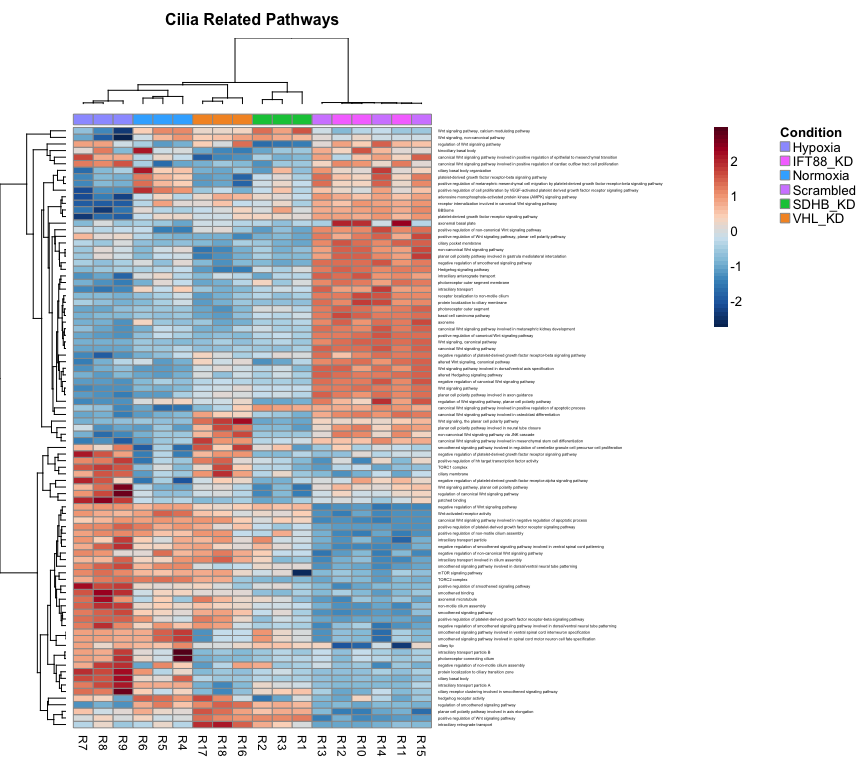
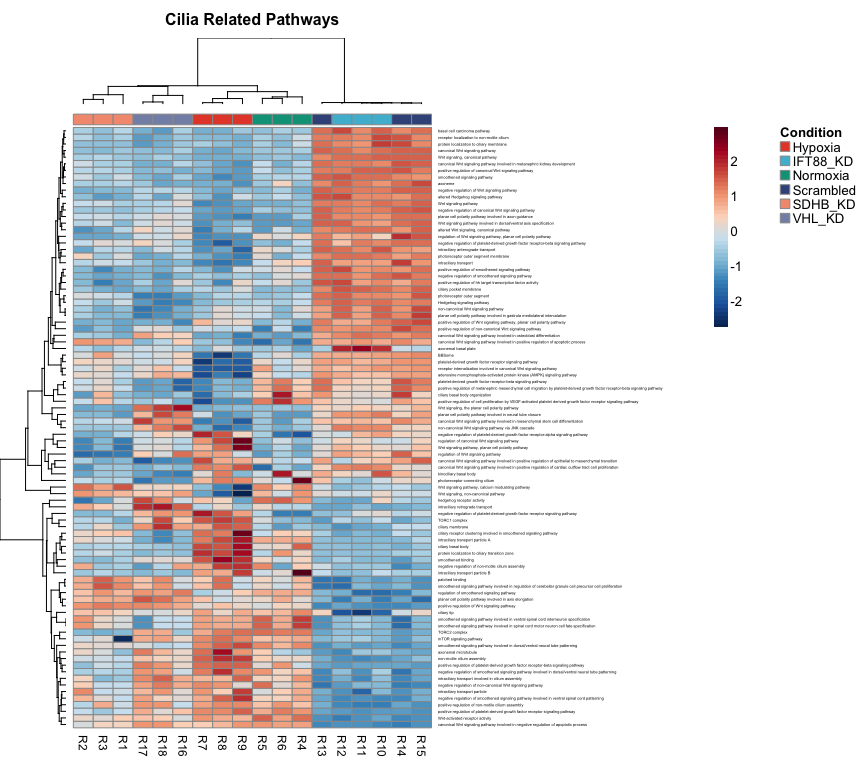
rn update

Changed region(s): [[0.0, 0.0625, 0.75, 1.0], [0.9062, 0.1875, 0.9375, 0.2812]]

diff --git a/Scripts/Rn_Hypoxia_vs_Normoxia.md b/Scripts/Rn_Hypoxia_vs_Normoxia.md
@@ -8,7 +8,7 @@ Rat Gene Knockout
 -   [Pathway Enrichment](#pathway-enrichment)
 -   [Figures](#figures)
 
-All analysis was conducted in R version 3.3.3 using the following script. Computations were performed on a MacBook Pro with 16GB of RAM.
+All analysis was conducted in R version 3.4.0 using the following script. Computations were performed on a MacBook Pro with 16GB of RAM and an i7 quad-core processor.
 
 If you haven't already installed the `bioplotr` package, you'll need to do so to reproduce the figures below.
 
@@ -40,17 +40,17 @@ anno <- fread('./Data/Rn.anno.csv')
 clin <- fread('./Data/Rn.Clinical.csv') 
 t2g <- fread('./Data/Rn83.t2g_Symbol.csv')
 files <- file.path('./Data/Counts/Rat', clin$Sample, 'abundance.tsv')
-txi <- tximport(files, type = 'kallisto', tx2gene = t2g, reader = fread)
+txi <- tximport(files, type = 'kallisto', tx2gene = t2g, importer = fread)
 ```
 
 Filter, Transform Counts
 ========================
 
-Before conducting exploratory data analysis (EDA), we remove genes with less than one count per million (CPM) in three libraries. This ensures that every gene is expressed in at least one condition. This threshold follows the filtering guidelines of [Robinson et al. (2010)](https://www.ncbi.nlm.nih.gov/pubmed/19910308). Counts are then RLE normalised ([Anders & Huber, 2010](https://genomebiology.biomedcentral.com/articles/10.1186/gb-2010-11-10-r106)) and converted to the log<sub>2</sub>-CPM scale to stabilise variance across the omic range.
+Before conducting exploratory data analysis (EDA), we remove genes with less than one count per million (CPM) in at least three libraries. This ensures that every gene is expressed in at least one condition. This threshold follows the filtering guidelines of [Robinson et al. (2010)](https://www.ncbi.nlm.nih.gov/pubmed/19910308). Counts are then RLE normalised ([Anders & Huber, 2010](https://genomebiology.biomedcentral.com/articles/10.1186/gb-2010-11-10-r106)) and converted to the log<sub>2</sub>-CPM scale to stabilise variance across the omic range.
 
 ``` r
 # Filter, transform counts
-keep <- rowSums(cpm(txi$counts) >= 1) > 3
+keep <- rowSums(cpm(txi$counts) > 1) >= 3
 mat <- DGEList(txi$counts[keep, ])
 mat <- calcNormFactors(mat, method = 'RLE')
 mat <- cpm(mat, log = TRUE, prior.count = 1)
@@ -60,7 +60,7 @@ colnames(mat) <- clin$Sample
 dim(mat)
 ```
 
-    ## [1] 13490    18
+    ## [1] 13621    18
 
 EDA will proceed with 13,490 genes. (Note that gene filtering is performed separately for differential expression analysis. We will make use of this EDA filter when testing for pathway enrichment, however. See below.)
 
@@ -91,7 +91,7 @@ We see here that the data are indeed approximately normal following log<sub>2</s
 To test that theory, we build a sample similarity matrix by calculating the pairwise [Euclidean distance](https://en.wikipedia.org/wiki/Euclidean_distance) between all samples in the data. This matrix is then visualised as a heatmap and used to generate a hierarchical clustering dendrogram.
 
 ``` r
-plot_similarity(mat, anno = list(Condition = clin$Condition))
+plot_similarity(mat, group = list(Condition = clin$Condition))
 ```
 
 <p align='center'>
@@ -160,7 +160,7 @@ How many genes are differentially expressed at 1% FDR?
 sum(top_genes$FDR <= 0.01)
 ```
 
-    ## [1] 3820
+    ## [1] 3830
 
 What proportion of all genes that passed independent filtering does that represent?
 
@@ -168,7 +168,7 @@ What proportion of all genes that passed independent filtering does that represe
 sum(top_genes$FDR <= 0.01) / nrow(top_genes)
 ```
 
-    ## [1] 0.2660538
+    ## [1] 0.266546
 
 Over a quarter of all genes are differentially expressed between these two conditions, indicating a strong transcriptomic signal distinguishing hypoxia from normoxia samples.
 
@@ -263,7 +263,7 @@ for (p in seq_along(cilia)) {
 }
 
 # Plot results
-plot_heatmap(pathway_mat, anno = list(Condition = clin$Condition), 
+plot_heatmap(pathway_mat, group = list(Condition = clin$Condition), 
              title = 'Cilia Related Pathways')
 ```
 
